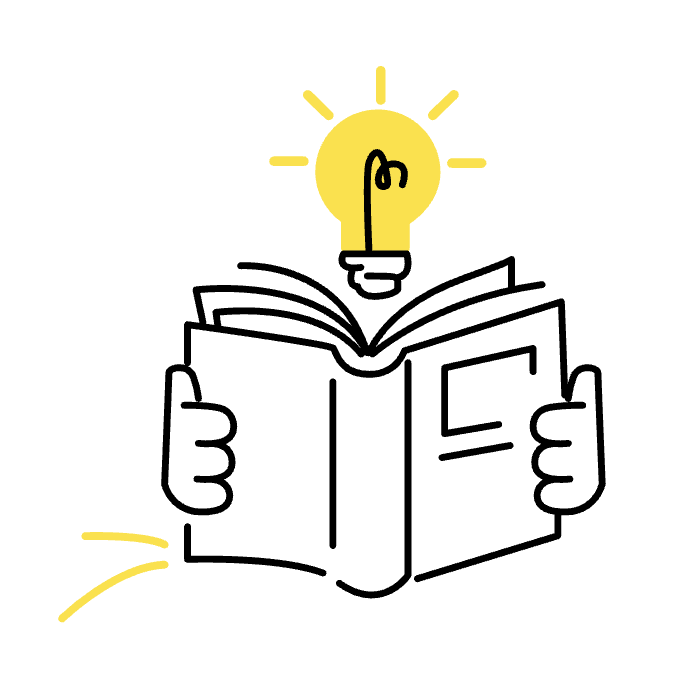
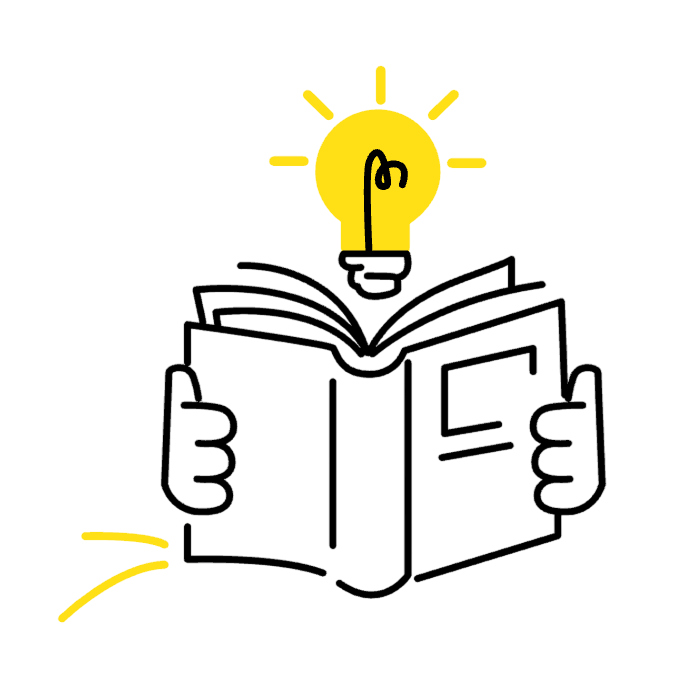
redefined visuals

diff --git a/src/components/About.jsx b/src/components/About.jsx
@@ -11,7 +11,7 @@ import Button from './Button'
 import {motion} from 'motion/react'
 import Icon from './Icon';
 import mail from '../assets/mail.png'
-import coding from '../assets/coding.png'
+import coding from '../assets/coding.svg'
 import programming from '../assets/programming.svg'
 import location from '../assets/location.svg'
 import education from '../assets/education.png'
